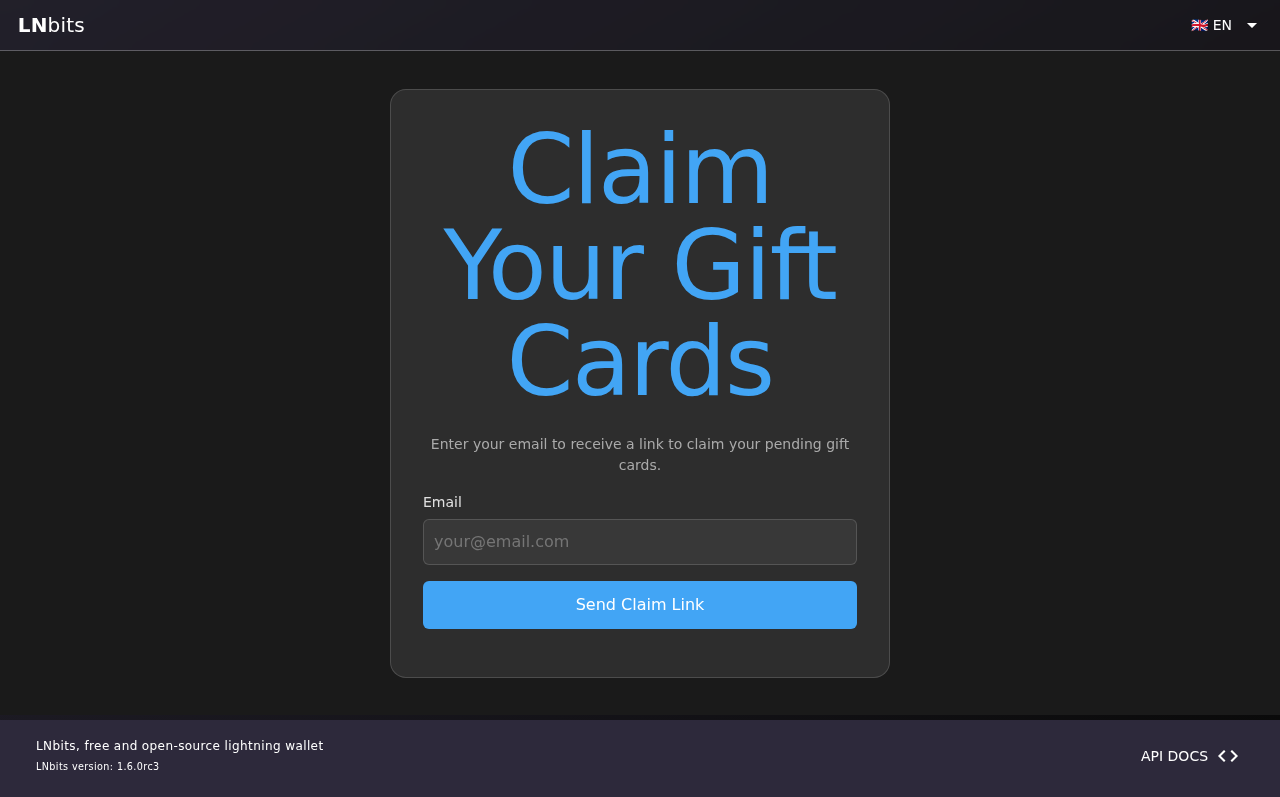
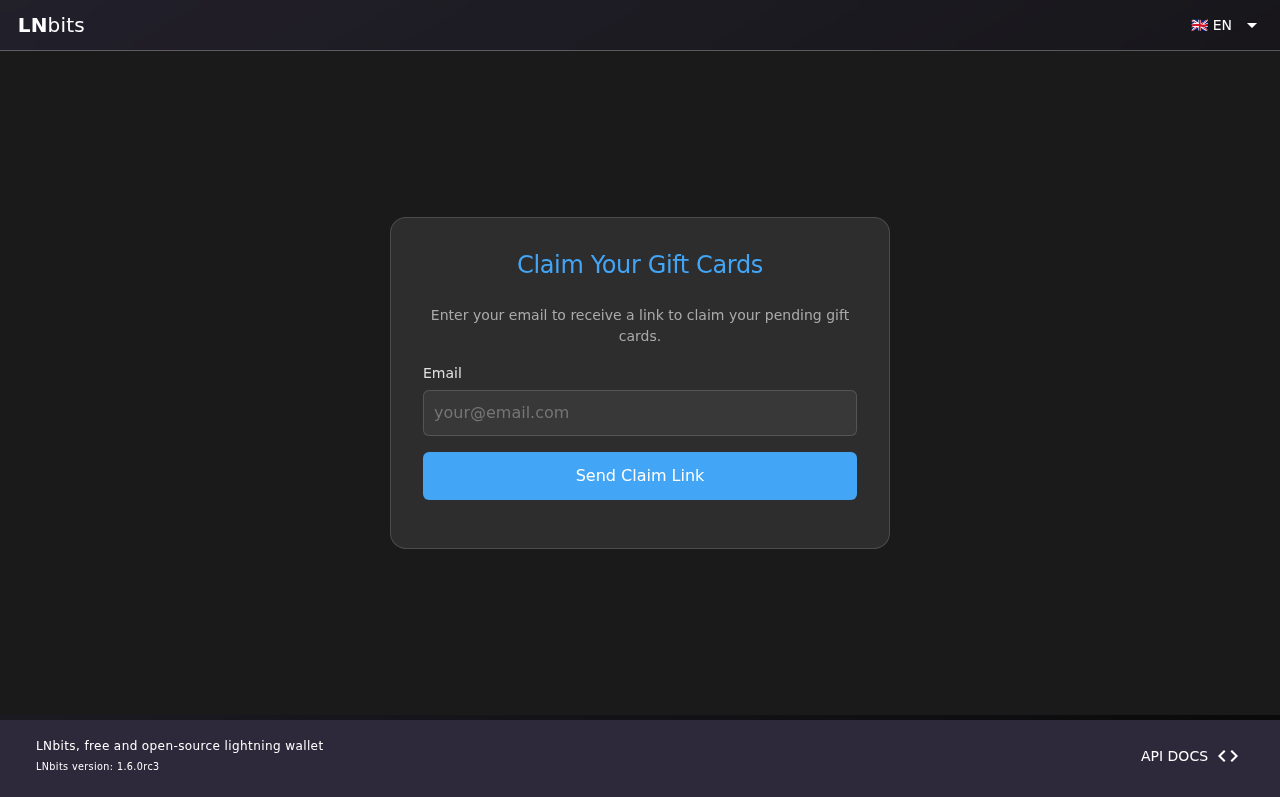
Fix oversized fonts caused by Quasar CSS global heading styles
Quasar's bundle.min.css sets h1 to 6rem and h2 to 3.75rem, which
overrides the extension's font sizes. Fix by adding a global reset
for h1-h6 (font-size: inherit) and explicit sizes on .header h1
(24px), .dialog h2 (20px), and .card-container h1 (24px). Also
set body font-size: 14px and line-height: 1.5 as a base.

Generated with [Devin](https://devin.ai)

Changed region(s): [[0.3125, 0.1506, 0.6875, 0.6324], [0.3125, 0.6625, 0.6875, 0.813]]

diff --git a/static/css/index.css b/static/css/index.css
@@ -27,10 +27,11 @@
     --gc-btn-text: #e0e0e0;
   }
 }
-body { font-family: 'Roboto', sans-serif; background: var(--gc-bg); color: var(--gc-text); color-scheme: light dark; }
+body { font-family: 'Roboto', sans-serif; background: var(--gc-bg); color: var(--gc-text); color-scheme: light dark; font-size: 14px; line-height: 1.5; }
+h1, h2, h3, h4, h5, h6 { font-size: inherit; font-weight: bold; line-height: 1.3; margin: 0; }
 .page { padding: 16px; max-width: 1200px; margin: 0 auto; }
 .header { display: flex; justify-content: space-between; align-items: center; margin-bottom: 24px; }
-.header h1 { font-size: 24px; color: var(--gc-text); }
+.header h1 { font-size: 24px; color: var(--gc-text); font-weight: 500; }
 .header h1 .icon { vertical-align: middle; font-size: 28px; color: var(--gc-accent); }
 .btn { display: inline-block; padding: 8px 16px; border: none; border-radius: 4px; cursor: pointer; font-size: 14px; background: var(--gc-btn-bg); color: var(--gc-btn-text); text-decoration: none; }
 .btn-primary { background: var(--gc-accent); color: #fff; }
@@ -51,7 +52,7 @@ body { font-family: 'Roboto', sans-serif; background: var(--gc-bg); color: var(-
 .gift-card .actions { margin-top: 12px; display: flex; gap: 8px; }
 .dialog-overlay { position: fixed; top: 0; left: 0; right: 0; bottom: 0; background: var(--gc-overlay); display: flex; align-items: center; justify-content: center; z-index: 1000; }
 .dialog { background: var(--gc-surface); color: var(--gc-text); border: 1px solid var(--gc-border); border-radius: 8px; padding: 24px; max-width: 500px; width: 90%; max-height: 80vh; overflow-y: auto; }
-.dialog h2 { margin-top: 0; margin-bottom: 16px; color: var(--gc-text); }
+.dialog h2 { font-size: 20px; font-weight: 500; margin-top: 0; margin-bottom: 16px; color: var(--gc-text); }
 .form-group { margin-bottom: 16px; }
 .form-group label { display: block; margin-bottom: 4px; font-weight: 500; color: var(--gc-text); }
 .form-group input, .form-group textarea, .form-group select { width: 100%; padding: 8px; border: 1px solid var(--gc-border); border-radius: 4px; font-size: 14px; background: var(--gc-input-bg); color: var(--gc-text); }

diff --git a/static/css/claim.css b/static/css/claim.css
@@ -21,9 +21,10 @@
     --gc-accent: #42a5f5;
   }
 }
-body { font-family: 'Roboto', sans-serif; background: var(--gc-bg); color: var(--gc-text); color-scheme: light dark; display: flex; align-items: center; justify-content: center; min-height: 100vh; }
+body { font-family: 'Roboto', sans-serif; background: var(--gc-bg); color: var(--gc-text); color-scheme: light dark; display: flex; align-items: center; justify-content: center; min-height: 100vh; font-size: 14px; line-height: 1.5; }
+h1, h2, h3, h4, h5, h6 { font-size: inherit; font-weight: bold; line-height: 1.3; margin: 0; }
 .card-container { background: var(--gc-surface); border: 1px solid var(--gc-border); border-radius: 16px; padding: 32px; max-width: 500px; width: 90%; }
-.card-container h1 { color: var(--gc-accent); text-align: center; margin-bottom: 24px; }
+.card-container h1 { font-size: 24px; font-weight: 500; color: var(--gc-accent); text-align: center; margin-bottom: 24px; }
 .form-group { margin-bottom: 16px; }
 .form-group label { display: block; margin-bottom: 6px; font-weight: 500; color: var(--gc-text); }
 .form-group input { width: 100%; padding: 10px; border: 1px solid var(--gc-border); border-radius: 6px; font-size: 16px; background: var(--gc-input-bg); color: var(--gc-text); }

diff --git a/static/css/redeem.css b/static/css/redeem.css
@@ -19,9 +19,10 @@
     --gc-accent: #42a5f5;
   }
 }
-body { font-family: 'Roboto', sans-serif; background: var(--gc-bg); color: var(--gc-text); color-scheme: light dark; display: flex; align-items: center; justify-content: center; min-height: 100vh; }
+body { font-family: 'Roboto', sans-serif; background: var(--gc-bg); color: var(--gc-text); color-scheme: light dark; display: flex; align-items: center; justify-content: center; min-height: 100vh; font-size: 14px; line-height: 1.5; }
+h1, h2, h3, h4, h5, h6 { font-size: inherit; font-weight: bold; line-height: 1.3; margin: 0; }
 .card-container { background: var(--gc-surface); border: 1px solid var(--gc-border); border-radius: 16px; padding: 32px; max-width: 450px; width: 90%; text-align: center; }
-.card-container h1 { color: var(--gc-accent); margin-bottom: 8px; }
+.card-container h1 { font-size: 24px; font-weight: 500; color: var(--gc-accent); margin-bottom: 8px; }
 .amount { font-size: 48px; font-weight: bold; color: var(--gc-accent); margin: 16px 0; }
 .sender { color: var(--gc-text-muted); font-size: 16px; margin-bottom: 4px; }
 .message { font-style: italic; margin: 16px 0; padding: 12px; background: var(--gc-bg); border-radius: 8px; }
